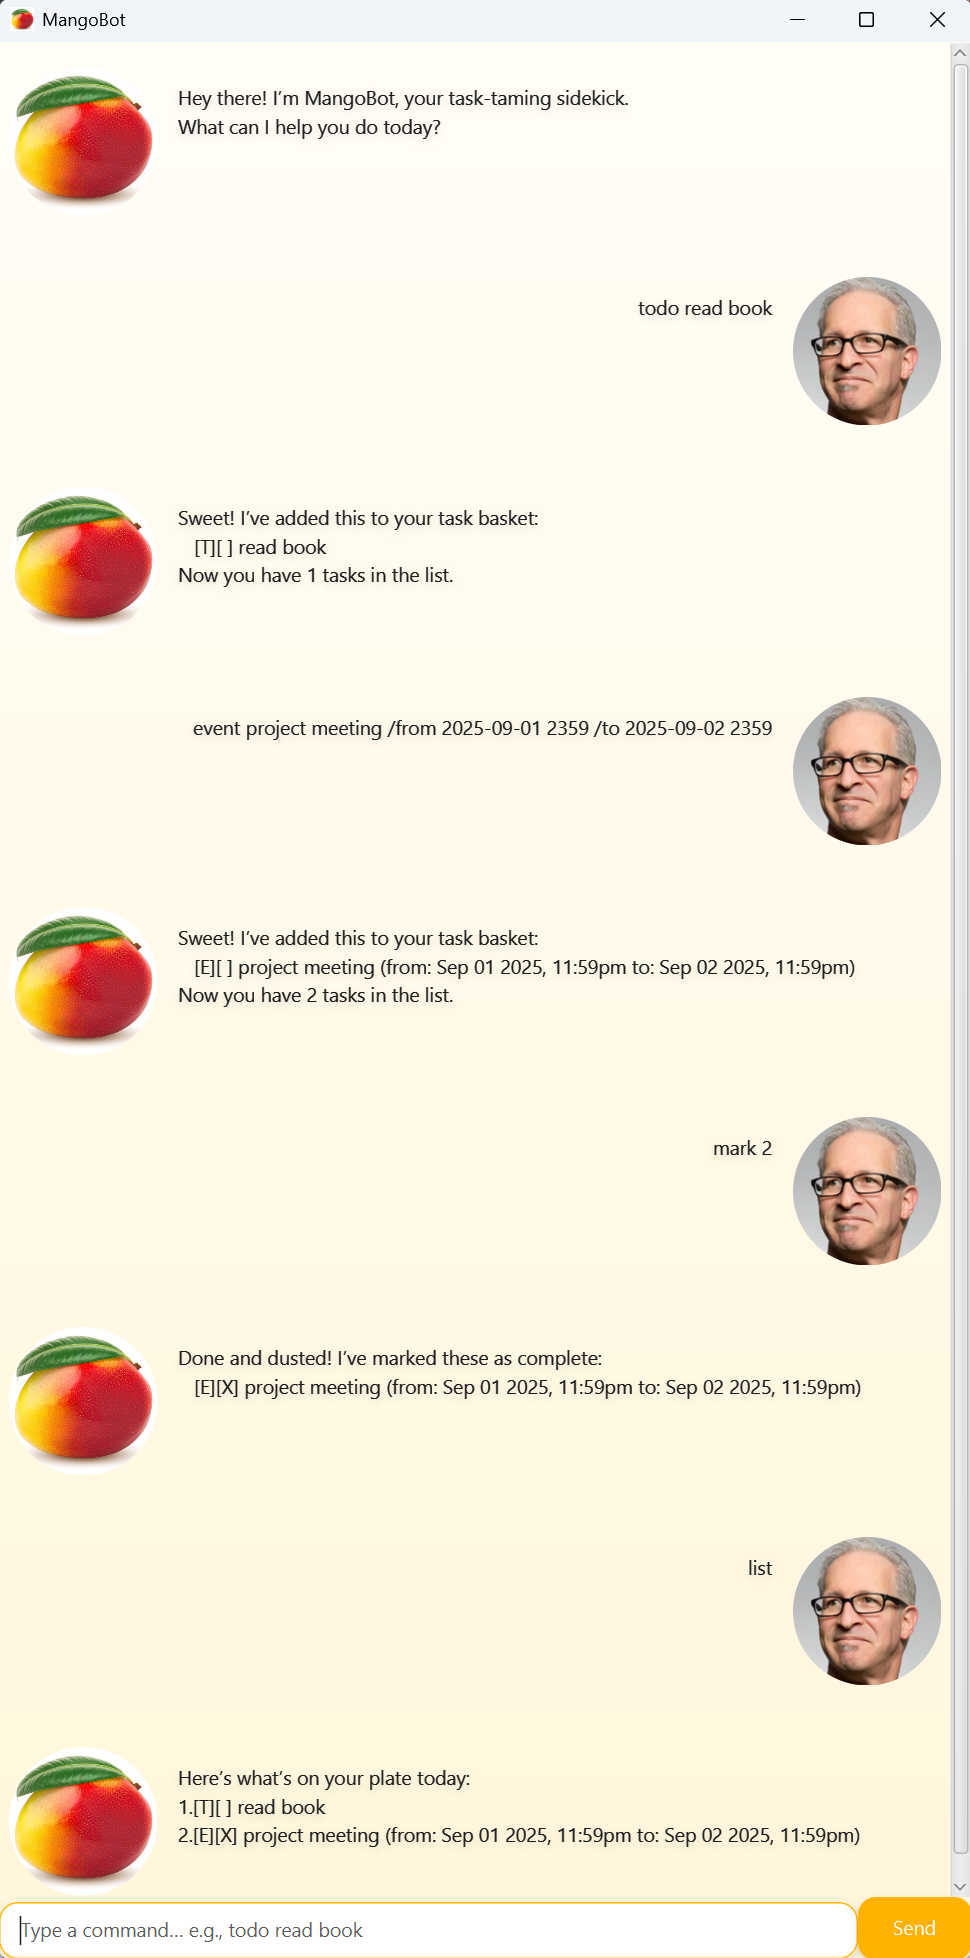
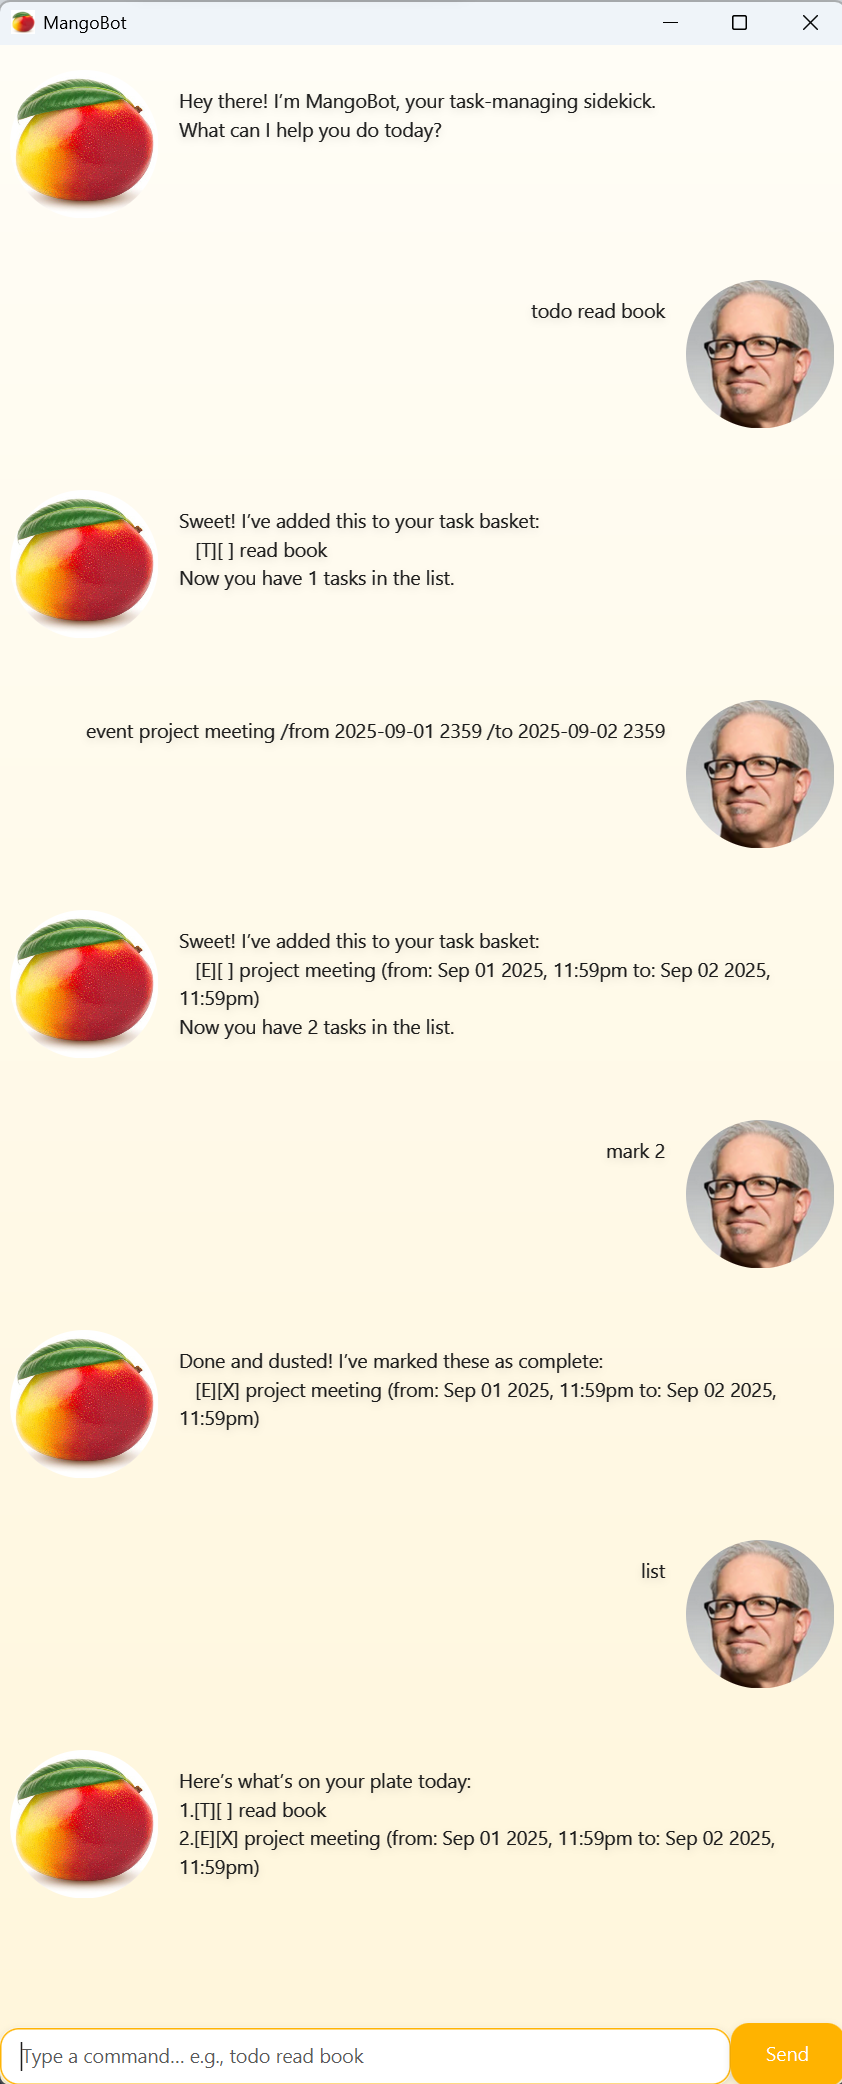
Update README.md and Ui.png

diff --git a/src/main/java/mango/ui/Messages.java b/src/main/java/mango/ui/Messages.java
@@ -13,7 +13,7 @@ public final class Messages {
      * Returns the welcome message.
      */
     public static String welcome() {
-        return "Hey there! I’m MangoBot, your task-taming sidekick.\nWhat can I help you do today?";
+        return "Hey there! I’m MangoBot, your task-managing sidekick.\nWhat can I help you do today?";
     }
 
     /**

diff --git a/README.md b/README.md
@@ -1,26 +1,149 @@
-# Duke project template
+# MangoBot — User Guide
 
-This is a project template for a greenfield Java project. It's named after the Java mascot _Duke_. Given below are instructions on how to use it.
+> Your task-managing sidekick.
 
-## Setting up in Intellij
+![MangoBot](./docs/Ui.png "MangoBot")  
 
-Prerequisites: JDK 17, update Intellij to the most recent version.
+---
 
-1. Open Intellij (if you are not in the welcome screen, click `File` > `Close Project` to close the existing project first)
-1. Open the project into Intellij as follows:
-   1. Click `Open`.
-   1. Select the project directory, and click `OK`.
-   1. If there are any further prompts, accept the defaults.
-1. Configure the project to use **JDK 17** (not other versions) as explained in [here](https://www.jetbrains.com/help/idea/sdk.html#set-up-jdk).<br>
-   In the same dialog, set the **Project language level** field to the `SDK default` option.
-1. After that, locate the `src/main/java/Duke.java` file, right-click it, and choose `Run Duke.main()` (if the code editor is showing compile errors, try restarting the IDE). If the setup is correct, you should see something like the below as the output:
-   ```
-   Hello from
-    ____        _        
-   |  _ \ _   _| | _____ 
-   | | | | | | | |/ / _ \
-   | |_| | |_| |   <  __/
-   |____/ \__,_|_|\_\___|
-   ```
+## Table of Contents
+- [What is MangoBot?](#what-is-mangobot)
+- [Quick Start](#quick-start)
+- [Commands](#commands)
+  - [todo](#todo)
+  - [deadline](#deadline)
+  - [event](#event)
+  - [list](#list)
+  - [mark / unmark](#mark--unmark)
+  - [delete](#delete)
+  - [find](#find)
+  - [bye](#bye)
+- [Date/Time Format](#datetime-format)
+- [Examples](#examples)
+- [Storage](#storage)
 
-**Warning:** Keep the `src\main\java` folder as the root folder for Java files (i.e., don't rename those folders or move Java files to another folder outside of this folder path), as this is the default location some tools (e.g., Gradle) expect to find Java files.
+---
+
+## What is MangoBot?
+
+MangoBot is a small task manager that runs in a chat-style UI or in the console. It supports simple tasks, due-dated deadlines and events. Tasks are saved locally to a text file so they persist across sessions.
+
+---
+
+## Quick Start
+
+When MangoBot opens, type a command (see below) and click on **Send** or press **Enter**. Your tasks are saved to `./data/mango.txt`.
+
+---
+
+## Commands
+
+> [!IMPORTANT]
+> Commands are **lowercase** and start the line. Arguments follow after a space.
+
+### `todo`
+Add a simple task without a date.
+```
+todo <description>
+```
+**Example:** `todo buy milk`
+
+---
+
+### `deadline`
+Add a task due at a specific date/time.
+```
+deadline <description> /by <yyyy-MM-dd HHmm>
+```
+**Example:** `deadline return book /by 2019-12-02 1800`
+
+---
+
+### `event`
+Add a task with a start and end time.
+```
+event <description> /from <yyyy-MM-dd HHmm> /to <yyyy-MM-dd HHmm>
+```
+**Example:** `event project meeting /from 2025-01-15 1400 /to 2025-01-15 1530`
+
+---
+
+### `list`
+Show all tasks with their index.
+```
+list
+```
+
+---
+
+### `mark` / `unmark`
+Mark one or more tasks as done or not done. Accepts one or more **1-based** indices separated by spaces.
+```
+mark <i1> [i2 ...]
+unmark <i1> [i2 ...]
+```
+**Example:** `mark 2 4`
+
+---
+
+### `delete`
+Remove one or more tasks. Accepts one or more **1-based** indices separated by spaces.
+```
+delete <i1> [i2 ...]
+```
+**Example:** `delete 3`
+
+---
+
+### `find`
+Search for tasks containing a keyword (case-sensitive match on description).
+```
+find <keyword>
+```
+**Example:** `find book`
+
+---
+
+### `bye`
+Exit the app.
+```
+bye
+```
+
+---
+
+## Date/Time Format
+
+- Pattern: **`yyyy-MM-dd HHmm`**  
+  Examples: `2025-12-31 0900`, `2019-12-02 1800`
+- MangoBot validates dates; invalid input shows an error with a suggested format.
+
+---
+
+## Examples
+
+```text
+todo draft report
+deadline submit report /by 2025-03-21 1700
+event team sync /from 2025-03-22 1000 /to 2025-03-22 1030
+list
+mark 1 3
+find report
+delete 2
+bye
+```
+
+## Storage
+
+- File: `./data/mango.txt`
+- Format (one task per line):
+  ```
+  T | <0|1> | <description>
+  D | <0|1> | <description> | yyyy-MM-dd HHmm
+  E | <0|1> | <description> | yyyy-MM-dd HHmm | yyyy-MM-dd HHmm
+  ```
+  - `T` = Todo, `D` = Deadline, `E` = Event
+  - `0` = not done, `1` = done
+
+> [!NOTE]
+> You can back up or reset your tasks by copying/deleting this file while the app is closed.

diff --git a/docs/README.md b/docs/README.md
@@ -1,8 +1,8 @@
 # MangoBot — User Guide
 
-> Your task-taming sidekick for quick todos, deadlines, and events.
+> Your task-managing sidekick.
 
-![MangoBot](./docs/Ui.png "MangoBot")  
+![MangoBot](./Ui.png "MangoBot")  
 
 ---
 
@@ -26,7 +26,7 @@
 
 ## What is MangoBot?
 
-MangoBot is a small Java/JavaFX task manager that runs in a clean chat-style UI or in the console. It supports simple tasks, due-dated deadlines, and timed events. Tasks are saved locally to a text file so they persist across sessions.
+MangoBot is a small task manager that runs in a chat-style UI or in the console. It supports simple tasks, due-dated deadlines and events. Tasks are saved locally to a text file so they persist across sessions.
 
 ---
 
